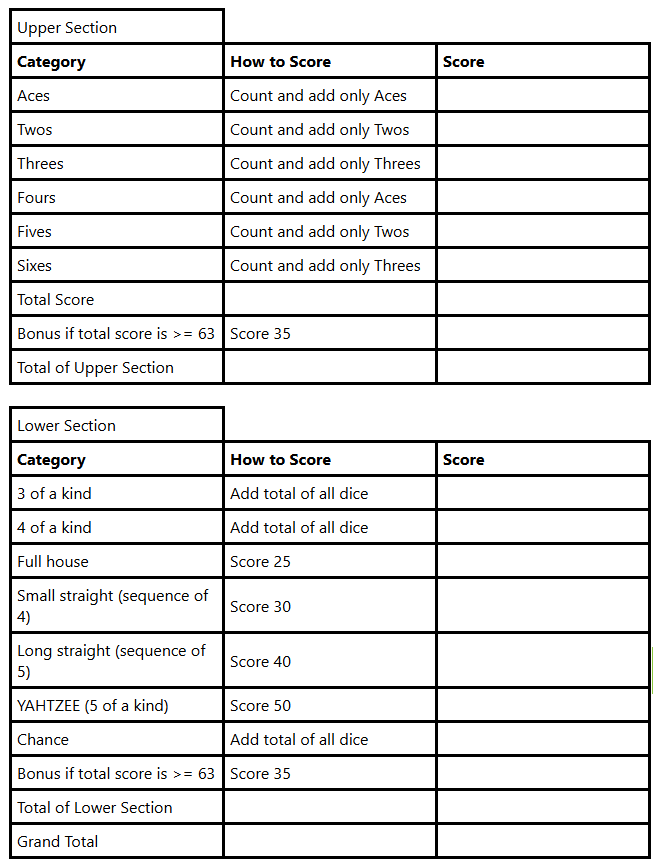
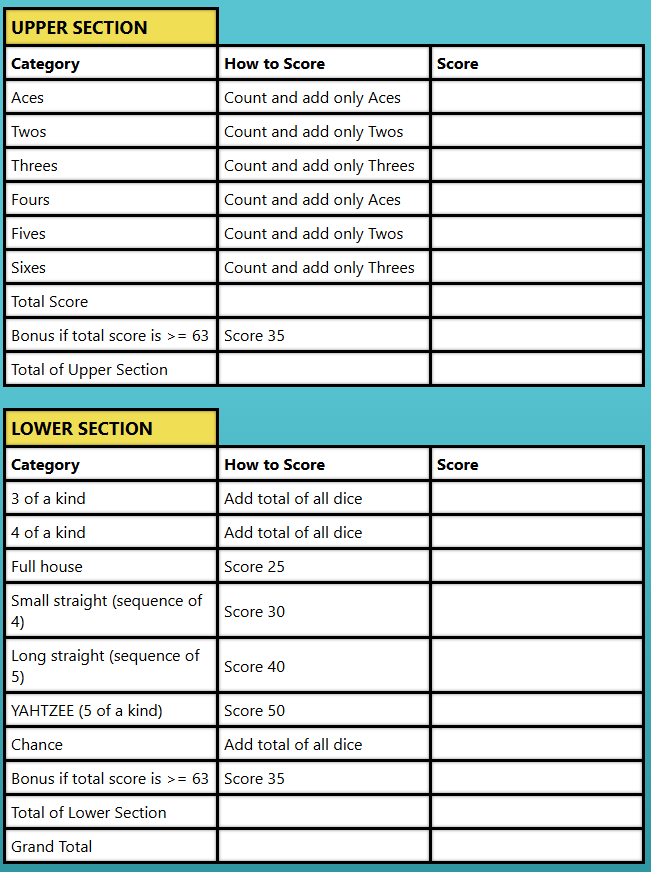
Update documentation

diff --git a/docs/design_system.md b/docs/design_system.md
@@ -1,22 +1,27 @@
 This file is used to document the design choices we made to our yatzy game. 
-The overall design we decide on was the keep it simple and minimalistic as our main focus was to make sure the game was functional. 
+The overall design we decide on was the keep it simple and minimalistic with only a few basic colors as our main focus was the game functionality.
 
 ## Fonts
 - **Primary Font:** Segoe UI
 - **Secondary Font** Sans Serif
 
 ## Colors
-- **Primary Color:** #000000
-- We wanted to keep the dice as it's true form of being black and white. 
-- When you hover over the dice, it will be highlighted grey to indicate that your hovering over it.
-- For our background, we would like to have it as a simple light colour that won't over power the scoreboard or the dice. 
+- **Primary Color:** #58C4D1
+- **Secondary Color:** #F0DE55
+- We chose a light blue color for the background and yellow for accents and buttons
+- When hovering over a die or score box, they also have a shade of yellow
+- We chose to keep simple, but contrasting colors to keep the design minimalistic but still interesting and appealing
 
 ## Components 
 
-![Dice](assets/design_system/dice.png)
-
 ![Start Page](assets/design_system/start_page.png)
 
-![Score Board](assets/design_system/ScoreBoard.png)
+![Dice](assets/design_system/dice.png)
+
+![Score Board](assets/design_system/score_table.png)
 
 ![Dice Board](assets/design_system/dice_board.png)
+
+![Game Board](assets/design_system/game_board.png)
+
+![End Page](assets/design_system/end_page.png)
